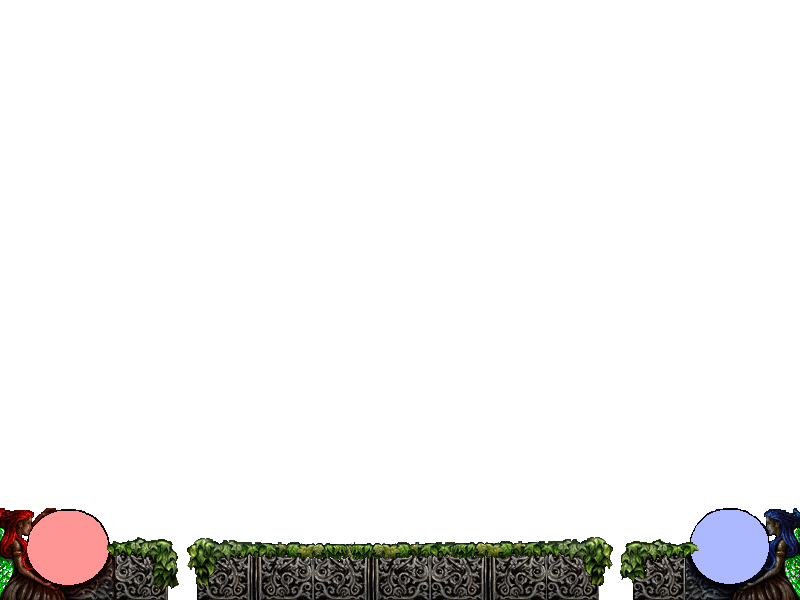
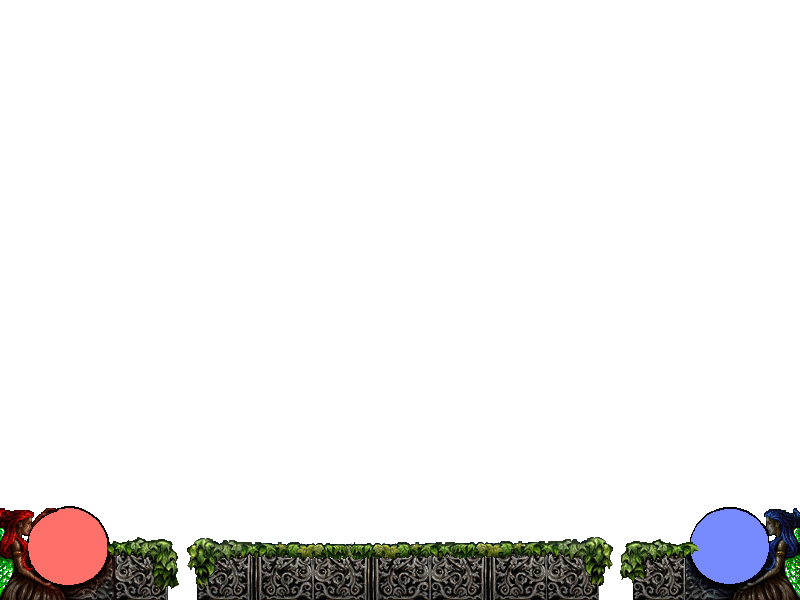
setja inn UI map

Changed region(s): [[0.0312, 0.84, 0.1562, 0.99], [0.8438, 0.84, 0.9688, 0.99]]

diff --git a/js/entities/UIManager.js b/js/entities/UIManager.js
@@ -1,28 +1,48 @@
 "use strict";
 
-var UIManager = {
-/*
-_cx : 0,
-_cy : 508,
-*/
-init : function() {
-	this.sprite = g_sprites.uibar;
-	this._cx = 0;
-	this._cy = 0;
+	var UIManager = {
+
+	init : function() {
+		this.bar = g_sprites.uibar;
+		this.map = g_sprites.uimap;
+		this._cx = 0;
+		this._cy = 0;
 	
-},
+	},
 
-update: function(du) {
-	var pos = camera.getPos();
-	this._cx = pos.posX;
-	this._cy = pos.posY;
-},
+	update: function(du) {
+		var pos = camera.getPos();
+		this._cx = pos.posX;
+		this._cy = pos.posY;
+	},
 
-render : function (ctx) {
-	this.sprite.drawAt(ctx, this._cx, this._cy);
-},
+	render : function (ctx) {
+		this.lifeBall(ctx);
+		this.bar.drawAt(ctx, this._cx, this._cy);
+		this.map.drawAt(ctx, this._cx, this._cy);
+	},
 
-getPos : function() {
-	return {posX : this._cx, posY : this._cy};
-}
+	lifeBall: function(ctx) {
+	
+		var oldastyle = ctx.fillstyle;
+	
+		var gradient = ctx.createLinearGradient(this._cx, 0, this._cx+800, 0);
+		gradient.addColorStop(0.07, "#f00");
+		gradient.addColorStop(0.1, "#100");
+
+		gradient.addColorStop(0.90,"#00f");
+		gradient.addColorStop(0.93, "#001");
+		ctx.fillStyle = gradient;
+	
+		ctx.arc(this._cx+68, this._cy+547, 20, 0, 2 * Math.PI);
+		ctx.arc(this._cx+730, this._cy+547, 20, 0, 2 * Math.PI);
+
+		ctx.fill();
+
+		ctx.fillstyle = oldastyle;
+	},
+
+	getPos : function() {
+		return {posX : this._cx, posY : this._cy};
+	}
 };

diff --git a/js/BINKLEBARD.js b/js/BINKLEBARD.js
@@ -101,7 +101,8 @@ function requestPreloads() {
         greenSoldier     : "img/greenMonster.png",
         wizard           : "img/wizard.png",
         goblin           : "img/goblin.png",
-		uibar         	 : "img/UIbar.png"
+		uibar         	 : "img/UIbar.png",
+		uimap        	 : "img/UImap.png"
 
     };
 
@@ -123,6 +124,7 @@ function preloadDone() {
     g_sprites.goblin = new Sprite(g_images.goblin);
 
 	g_sprites.uibar = new Sprite(g_images.uibar);
+	g_sprites.uimap = new Sprite(g_images.uimap);
 
     g_sprites.terrain  = new Sprite(g_images.terrain);
     g_sprites.sparcles = new Sprite(g_images.sparcles);
